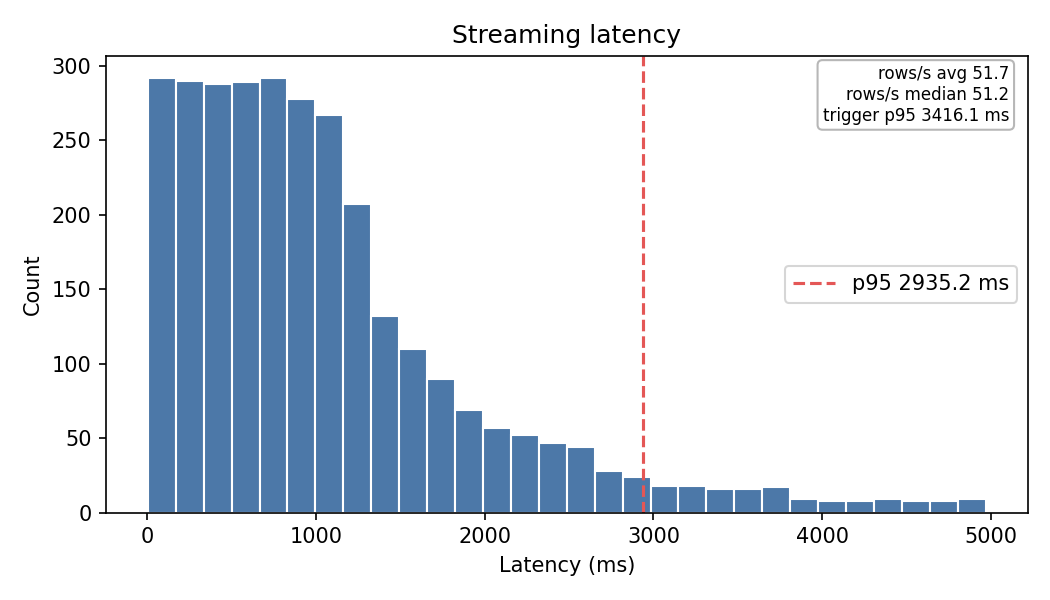
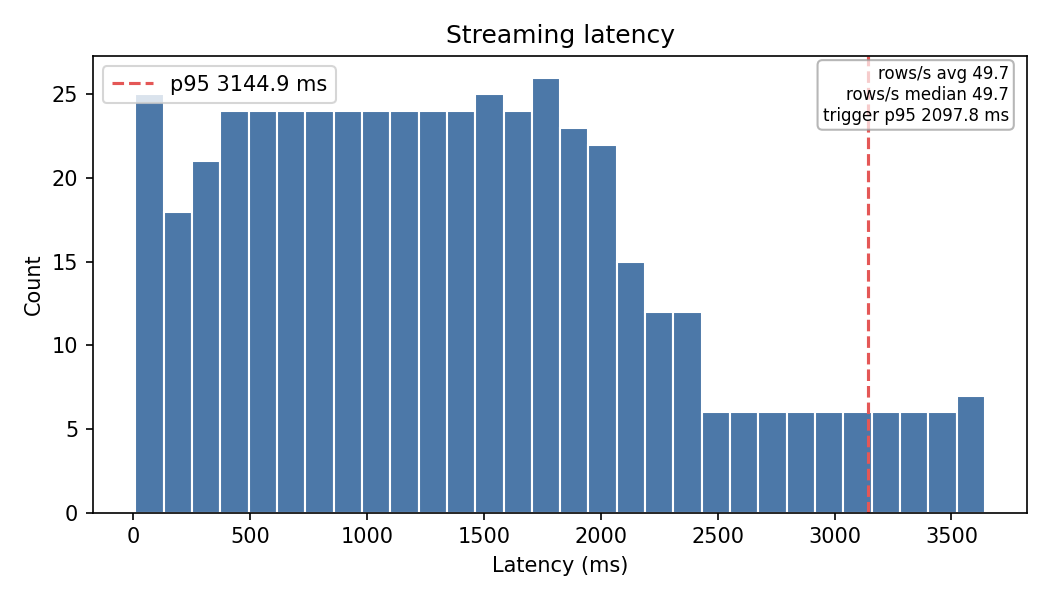
Adjust scorer.py and run_stream_latency.sh

diff --git a/src/streaming/scorer.py b/src/streaming/scorer.py
@@ -230,7 +230,9 @@ def main() -> None:
         preds = model.transform(good_df)
 
         probability_yes = vector_to_array("probability").getItem(pos_index)
-        prediction_label = label_array.getItem(F.col("prediction").cast("int"))
+        prediction_label = F.element_at(
+            label_array, F.col("prediction").cast("int") + F.lit(1)
+        )
         model_name = F.lit(os.path.basename(os.path.normpath(args.model)))
 
         output_df = preds.select(

diff --git a/report/tables.md b/report/tables.md
@@ -28,6 +28,7 @@
 
 | Run | Count | Avg (ms) | Median (ms) | p95 (ms) | Min (ms) | Max (ms) |
 | --- | --- | --- | --- | --- | --- | --- |
-| latest | 3000 | 1067.31 | 861.95 | 2935.24 | 2.81 | 4968.65 |
+| latest | 500 | 1387.57 | 1306.96 | 3144.89 | 8.91 | 3643.91 |
 | gbt_test | 3000 | 1067.31 | 861.95 | 2935.24 | 2.81 | 4968.65 |
 | lr_test | 3000 | 996.33 | 792.47 | 3143.01 | 4.18 | 4658.79 |
+| smoke | 500 | 1387.57 | 1306.96 | 3144.89 | 8.91 | 3643.91 |
